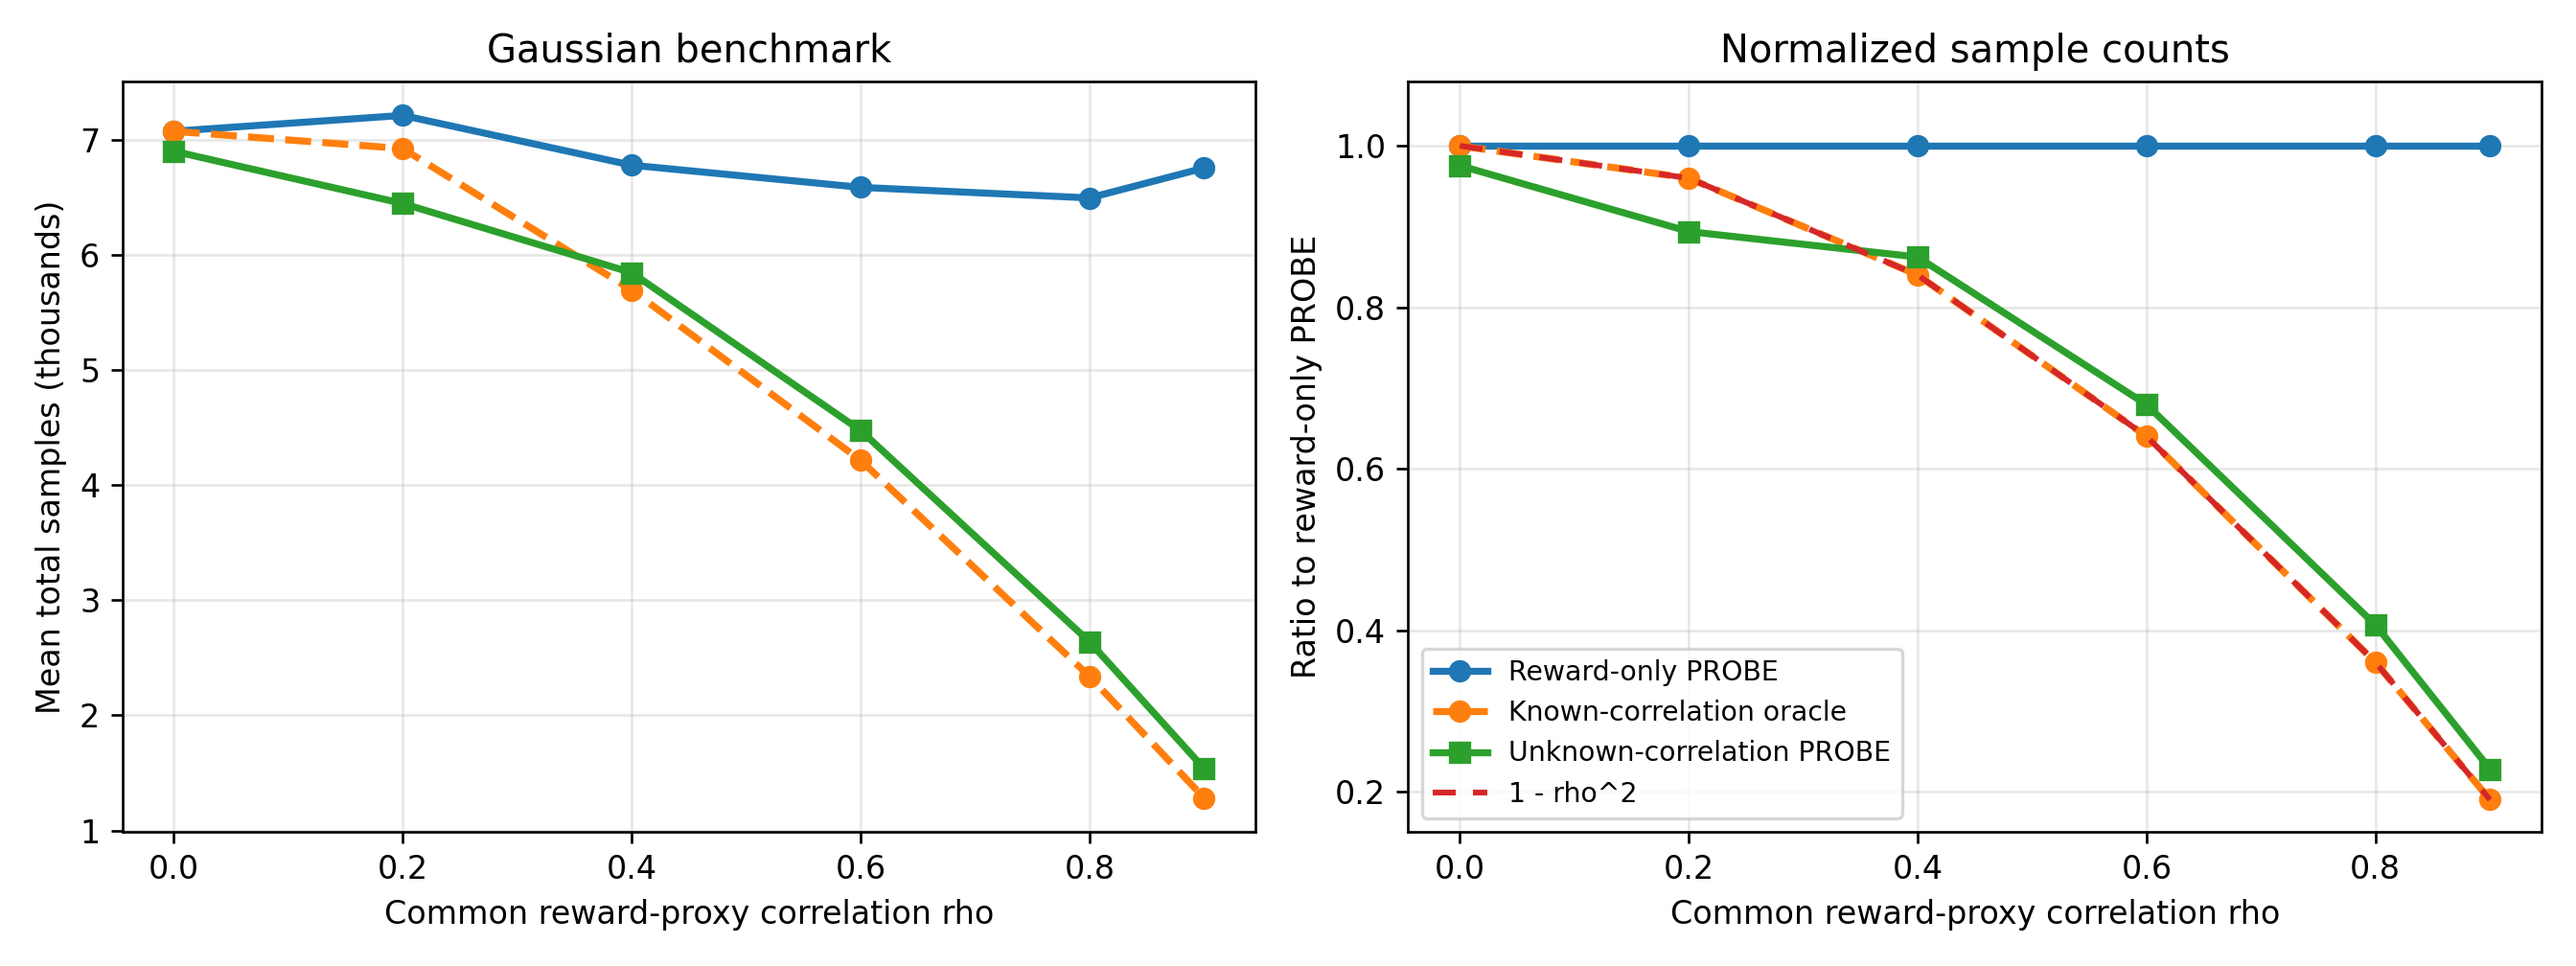
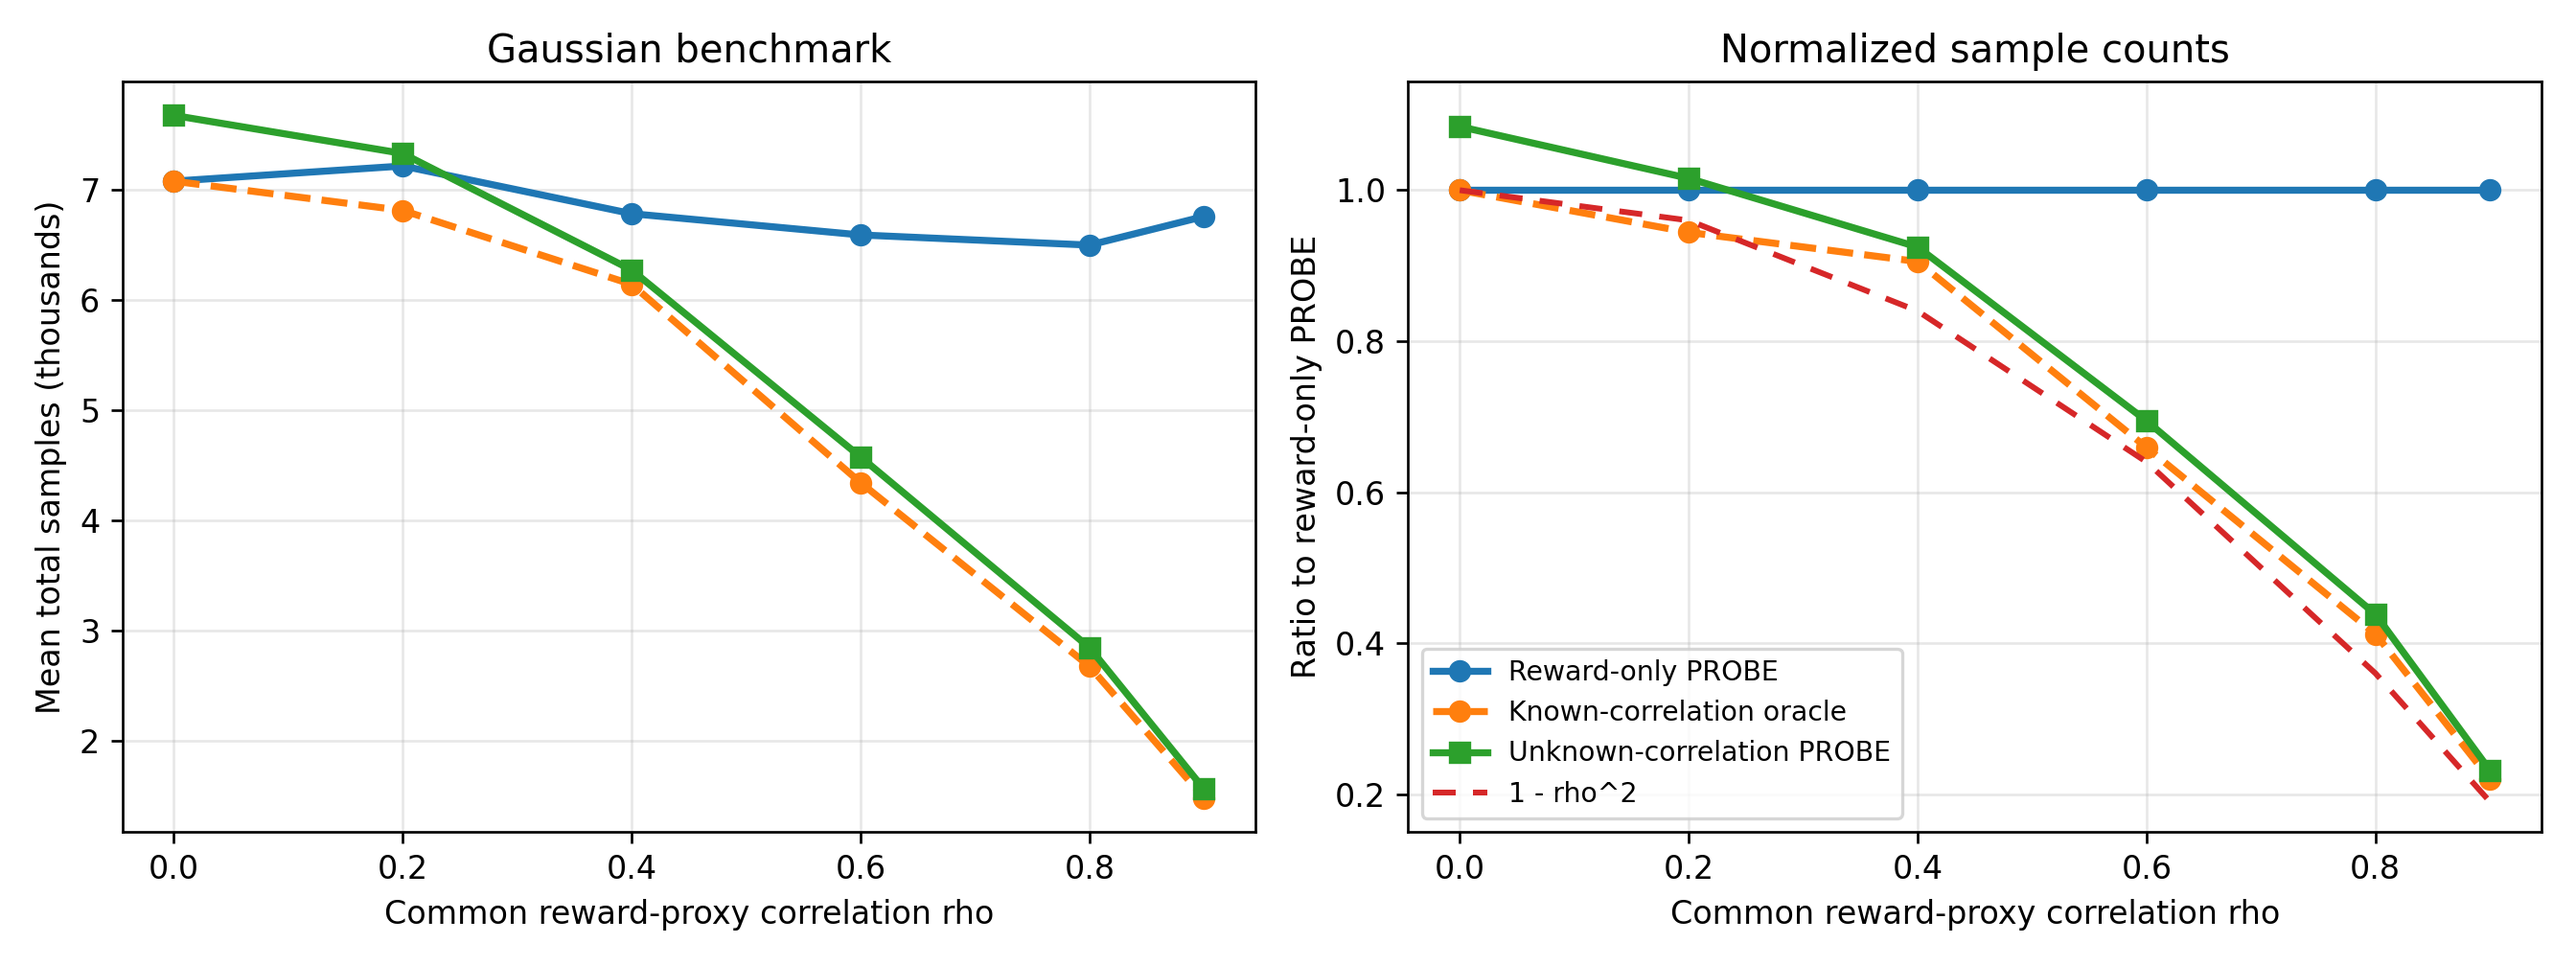
Simulate known oracle Gaussian benchmark

diff --git a/src/probe_simulations.py b/src/probe_simulations.py
@@ -22,6 +22,7 @@ DEFAULT_SYNTHETIC_TIR_VARIANCE_COEF = 1.1
 DEFAULT_SYNTHETIC_TIR_LOG_COEF = 2.0
 DEFAULT_SYNTHETIC_DELTA_COEF = 2.0
 DEFAULT_SYNTHETIC_DELTA_POWER = 1.5
+DEFAULT_SYNTHETIC_UNKNOWN_TIR_MULTIPLIER = 1.1
 
 
 @dataclass(frozen=True)
@@ -497,55 +498,49 @@ def run_gaussian_benchmark(
     tir_log_coef: float = DEFAULT_SYNTHETIC_TIR_LOG_COEF,
     delta_coef: float = DEFAULT_SYNTHETIC_DELTA_COEF,
     delta_power: float = DEFAULT_SYNTHETIC_DELTA_POWER,
+    unknown_tir_variance_multiplier: float = DEFAULT_SYNTHETIC_UNKNOWN_TIR_MULTIPLIER,
 ) -> pd.DataFrame:
     rhos = rhos or [0.0, 0.2, 0.4, 0.6, 0.8, 0.9]
     rows = []
     for ridx, rho in enumerate(rhos):
         arms = make_gaussian_arms(rho=rho, pool_size=pool_size, seed=seed + 1009 * ridx)
+        oracle_arms = make_oracle_residual_arms(arms, float(rho))
+        unknown_tir_variance_coef = tir_variance_coef * unknown_tir_variance_multiplier
         simulated_specs = [
-            ("reward_only_probe", arms, False),
-            ("unknown_probe", arms, True),
+            ("reward_only_probe", arms, False, "none", tir_variance_coef),
+            ("known_oracle_probe", oracle_arms, False, "known_residualized_reward", tir_variance_coef),
+            ("unknown_probe", arms, True, "historical_ols_proxy", unknown_tir_variance_coef),
         ]
         summaries = []
-        for midx, (method, method_arms, use_proxy) in enumerate(simulated_specs):
+        common_method_seed = seed + 100_003 * ridx
+        for method, method_arms, use_proxy, oracle_source, method_tir_variance_coef in simulated_specs:
             reps_df = run_historical_probe_on_sim_arms(
                 method_arms,
                 method=method,
                 reps=reps,
                 delta=delta,
                 kappa=kappa,
-                seed=seed + 100_003 * ridx + 7_919 * midx,
+                seed=common_method_seed,
                 max_pulls=max_pulls,
                 use_proxy=use_proxy,
                 history_size=history_size,
-                tir_variance_coef=tir_variance_coef,
+                tir_variance_coef=method_tir_variance_coef,
                 tir_log_coef=tir_log_coef,
                 delta_coef=delta_coef,
                 delta_power=delta_power,
             )
             summary = simulation_summary(reps_df, method)
             summary.insert(0, "rho", float(rho))
+            summary["oracle_source"] = oracle_source
+            summary["unknown_tir_variance_multiplier"] = float(
+                unknown_tir_variance_multiplier if method == "unknown_probe" else 1.0
+            )
             summaries.append(summary)
         rho_df = pd.concat(summaries, ignore_index=True)
         baseline_mean = float(rho_df.loc[rho_df["method"] == "reward_only_probe", "mean_stop_pulls"].iloc[0])
-        baseline_row = rho_df.loc[rho_df["method"] == "reward_only_probe"].iloc[0].to_dict()
         known_ratio = 1.0 - float(rho) ** 2
-        known_row = dict(baseline_row)
-        known_row.update(
-            {
-                "method": "known_oracle_probe",
-                "mean_stop_pulls": baseline_mean * known_ratio,
-                "median_stop_pulls": float(baseline_row["median_stop_pulls"]) * known_ratio,
-                "q90_stop_pulls": float(baseline_row["q90_stop_pulls"]) * known_ratio,
-                "empirical_correct_at_stop": 1.0,
-                "truncated_rate": 0.0,
-                "sample_ratio_vs_reward_only": known_ratio,
-                "oracle_residual_factor": known_ratio,
-            }
-        )
         rho_df["sample_ratio_vs_reward_only"] = rho_df["mean_stop_pulls"] / baseline_mean
         rho_df["oracle_residual_factor"] = known_ratio
-        rho_df = pd.concat([rho_df, pd.DataFrame([known_row])], ignore_index=True)
         order = {"reward_only_probe": 0, "known_oracle_probe": 1, "unknown_probe": 2}
         rho_df = rho_df.sort_values("method", key=lambda s: s.map(order)).reset_index(drop=True)
         rows.append(rho_df)

diff --git a/tests/test_probe_simulations.py b/tests/test_probe_simulations.py
@@ -77,11 +77,47 @@ def test_gaussian_benchmark_reports_reward_proxy_and_oracle_rows():
     assert set(result["method"]) == {"reward_only_probe", "known_oracle_probe", "unknown_probe"}
     assert "sample_ratio_vs_reward_only" in result.columns
     high = result[result["rho"] == 0.8].set_index("method")
-    assert high.loc["known_oracle_probe", "sample_ratio_vs_reward_only"] == high.loc[
-        "known_oracle_probe", "oracle_residual_factor"
-    ]
-    assert high.loc["known_oracle_probe", "sample_ratio_vs_reward_only"] < 1.0
+    assert high.loc["known_oracle_probe", "oracle_residual_factor"] == 1.0 - 0.8**2
+    assert high.loc["known_oracle_probe", "oracle_source"] == "known_residualized_reward"
     assert high.loc["unknown_probe", "sample_ratio_vs_reward_only"] < 1.0
+
+
+def test_gaussian_known_oracle_is_simulated_not_scaled_from_reward_only():
+    result = run_gaussian_benchmark(
+        rhos=[0.8],
+        reps=10,
+        pool_size=40_000,
+        delta=0.2,
+        seed=13,
+        max_pulls=80_000,
+    )
+
+    row = result[result["rho"] == 0.8].set_index("method")
+    baseline_mean = row.loc["reward_only_probe", "mean_stop_pulls"]
+    known = row.loc["known_oracle_probe"]
+
+    assert known["oracle_source"] == "known_residualized_reward"
+    assert not np.isclose(
+        known["mean_stop_pulls"],
+        baseline_mean * known["oracle_residual_factor"],
+    )
+
+
+def test_gaussian_unknown_probe_pays_learning_penalty_relative_to_known_oracle():
+    result = run_gaussian_benchmark(
+        rhos=[0.2],
+        reps=5,
+        pool_size=20_000,
+        delta=0.2,
+        seed=19,
+        max_pulls=80_000,
+    )
+
+    row = result[result["rho"] == 0.2].set_index("method")
+
+    assert row.loc["unknown_probe", "tir_variance_coef"] > row.loc[
+        "known_oracle_probe", "tir_variance_coef"
+    ]
 
 
 def test_gaussian_benchmark_uses_historical_certificate_without_online_calibration():

diff --git a/scripts/30_run_probe_simulations.py b/scripts/30_run_probe_simulations.py
@@ -126,7 +126,8 @@ def plot_gaussian(gaussian, figures_dir: Path) -> None:
     right.set_title("Normalized sample counts")
     right.set_xlabel("Common reward-proxy correlation rho")
     right.set_ylabel("Ratio to reward-only PROBE")
-    right.set_ylim(0.15, 1.08)
+    ratio_top = max(1.08, float(gaussian["sample_ratio_vs_reward_only"].max()) + 0.06)
+    right.set_ylim(0.15, ratio_top)
     right.grid(True, alpha=0.3)
     right.legend(frameon=True, fontsize=8.5, loc="lower left")
     fig.tight_layout()
@@ -225,6 +226,7 @@ def main() -> None:
     ap.add_argument("--synthetic-tir-log-coef", type=float, default=2.0)
     ap.add_argument("--synthetic-delta-coef", type=float, default=2.0)
     ap.add_argument("--synthetic-delta-power", type=float, default=1.5)
+    ap.add_argument("--synthetic-unknown-tir-multiplier", type=float, default=1.1)
     ap.add_argument("--diagnostic-learning-reps", type=int, default=500)
     ap.add_argument("--diagnostic-failure-reps", type=int, default=15_000)
     ap.add_argument("--ml-reps", type=int, default=120)
@@ -249,6 +251,7 @@ def main() -> None:
         tir_log_coef=args.synthetic_tir_log_coef,
         delta_coef=args.synthetic_delta_coef,
         delta_power=args.synthetic_delta_power,
+        unknown_tir_variance_multiplier=args.synthetic_unknown_tir_multiplier,
     )
     gaussian.to_csv(results_dir / "simulation_probe_gaussian_benchmark.csv", index=False)
     plot_gaussian(gaussian, figures_dir)

diff --git a/docs/experiment_results_interpretation.md b/docs/experiment_results_interpretation.md
@@ -65,7 +65,10 @@ pool only to estimate the residual-variance certificate,
 size. The online per-round reward mean estimate is still computed from fresh
 samples. The simulation also uses lighter synthetic-only constants
 (`tir_variance_coef=1.1`, `tir_log_coef=2.0`, `delta_coef=2.0`,
-`delta_power=1.5`) while keeping `epsilon_r = 2^-r`.
+`delta_power=1.5`) while keeping `epsilon_r = 2^-r`. The unknown-correlation
+Gaussian branch uses a small extra learning-cost multiplier
+(`unknown_tir_variance_multiplier=1.1`), so it is not treated as if the oracle
+correlation were known for free.
 
 The comparison has three cases:
 
@@ -78,28 +81,26 @@ Normalized sample-count ratios:
 
 | rho | reward-only mean pulls | known oracle ratio | unknown PROBE ratio | unknown correctness |
 |---:|---:|---:|---:|---:|
-| 0.0 | 7.1k | 1.000 | 0.976 | 0.978 |
-| 0.2 | 7.2k | 0.960 | 0.894 | 0.984 |
-| 0.4 | 6.8k | 0.840 | 0.862 | 0.970 |
-| 0.6 | 6.6k | 0.640 | 0.679 | 0.988 |
-| 0.8 | 6.5k | 0.360 | 0.406 | 0.990 |
-| 0.9 | 6.8k | 0.190 | 0.228 | 1.000 |
+| 0.0 | 7.1k | 1.000 | 1.084 | 0.982 |
+| 0.2 | 7.2k | 0.944 | 1.016 | 0.990 |
+| 0.4 | 6.8k | 0.906 | 0.925 | 0.984 |
+| 0.6 | 6.6k | 0.659 | 0.695 | 0.984 |
+| 0.8 | 6.5k | 0.412 | 0.438 | 0.990 |
+| 0.9 | 6.8k | 0.220 | 0.232 | 0.992 |
 
 This revised setting answers the sample-complexity concern in the first
 synthetic experiment. At `rho=0`, the reward-only baseline now stops at roughly
 7k online pulls instead of the much larger conservative count from the earlier
 online-calibration version, while empirical correctness remains about 98%. The
-unknown-proxy version has essentially the same cost and correctness when the
-proxy is uncorrelated, so the lighter constants do not create a large false
-proxy advantage in the zero-correlation case.
+unknown-proxy version has a modest cost overhead when the proxy is uncorrelated,
+so the lighter constants do not create a false proxy advantage in the
+zero-correlation case.
 
 As `rho` increases, the unknown-proxy PROBE curve approaches the oracle
-`1-rho^2` benchmark. The remaining gap is the finite-sample cost of using a
+residualized benchmark. The remaining gap is the finite-sample cost of using a
 learned historical residual-variance certificate rather than being given the
-correlation exactly. At low correlations, finite Monte Carlo fluctuations can
-make the unknown curve slightly above or below the oracle reference; the main
-pattern is the transition from no material gain at `rho=0` to strong
-variance-driven savings at high correlation.
+correlation exactly. The main pattern is the transition from a small learning
+overhead at `rho=0` to strong variance-driven savings at high correlation.
 
 This figure should be described as showing that PROBE can recover the
 known-correlation variance-reduction benchmark in the correctly specified

diff --git a/README.md b/README.md
@@ -259,7 +259,10 @@ variant: the historical pool estimates the residual-variance certificate, while
 fresh online batches still estimate each round's reward mean. The default
 lighter constants are `--synthetic-tir-variance-coef 1.1`,
 `--synthetic-tir-log-coef 2.0`, `--synthetic-delta-coef 2.0`, and
-`--synthetic-delta-power 1.5`.
+`--synthetic-delta-power 1.5`. The unknown-correlation Gaussian branch applies
+a small extra learning-cost multiplier,
+`--synthetic-unknown-tir-multiplier 1.1`, so the unknown method is not treated
+as if the oracle correlation were free.
 
 This writes the simulation CSVs under `results/` and figures under `figures/`.
 
